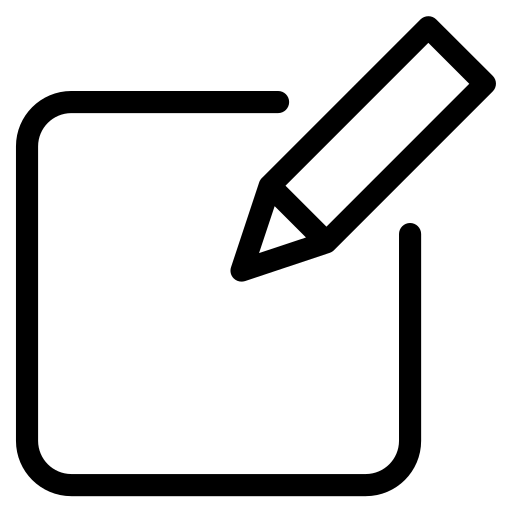
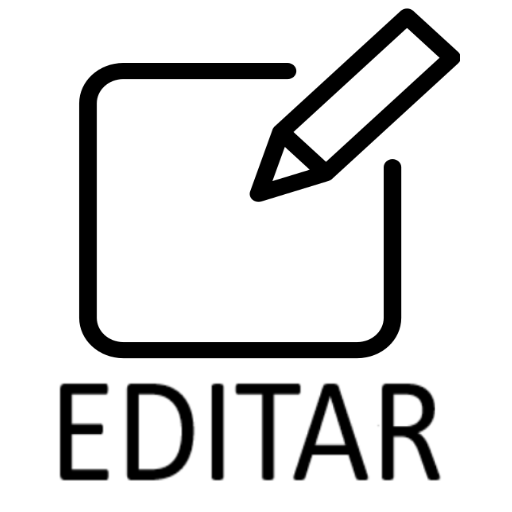
retirado confirmação

Changed region(s): [[0.0312, 0.0, 0.9688, 0.9688]]

diff --git a/src/Components/OrdensLista/OrdensLista.js b/src/Components/OrdensLista/OrdensLista.js
@@ -102,7 +102,6 @@ function OrdensLista({ordens, setOrdens, setLocalStorage}){
         if(ordem.status === 'Pausado'){
             const ordensLocalStorage = JSON.parse(localStorage.getItem('ordensNaoFinalizadas')) || [];
             const ordemAtualIndex = ordensLocalStorage.findIndex(element => element.id === ordem.id);
-            console.log(ordem.id)
             if (ordemAtualIndex !== -1) {
                 const ordemAtual = ordensLocalStorage[ordemAtualIndex];
                 const dataRecomeco = new Date()
@@ -132,9 +131,8 @@ function OrdensLista({ordens, setOrdens, setLocalStorage}){
         console.error('Erro ao atualizar o estado das ordens:', error);
     }
     }
+
     async function HandleFinalizar(ordem){
-        const confirmacao = window.confirm(`Tem certeza que quer finalizar a ordem de produção código : ${ordem.ordem_producao} ?`)
-        if(confirmacao){
         const horarioFinalizacao = new Date()
         const horarioInicio = new Date(Date.parse(ordem.horario_inicio) + 10800000)
         const tempoTotalMilisegundos = horarioFinalizacao - horarioInicio
@@ -163,7 +161,6 @@ function OrdensLista({ordens, setOrdens, setLocalStorage}){
         }else{
             window.alert("Coloque a ordem Em andamento antes de finalizar")
         }
-    }
     }
 
     function pegaUltimoMotivoPausa(motivos){
@@ -295,7 +292,9 @@ function OrdensLista({ordens, setOrdens, setLocalStorage}){
                             <ItemLista>
                                 <Botao border='0.1px black solid' boxshadow='2px 2px 2px 1px rgba(0, 0, 0, 0.2);' padding='10px 5px' border_radius='5px' backgroundcolor='#FF6347' color='black' font_size='20px' width='80%' onClick={async() => await HandleModalQuantidadeFinalizacao(ordem)}>FINALIZAR</Botao>
                             </ItemLista>
-                                <Botao   padding='2px 2px'  backgroundcolor='rgb(0,0,0,0)' color='black' font_size='20px' width='10%' onClick={async() => HandleModalEdicao(ordem)}><Imagem src={ImagemEditar} width='40%'></Imagem></Botao>
+                                <Botao   padding='2px 2px'  backgroundcolor='rgb(0,0,0,0)' color='black' font_size='20px' width='10%' onClick={async() => HandleModalEdicao(ordem)}><Imagem src={ImagemEditar} width='80%'></Imagem></Botao>
+                                
+                                
     <Modal 
     isOpen={ModalPausa}
     onRequestClose={async() => setModalPausa(false)}
